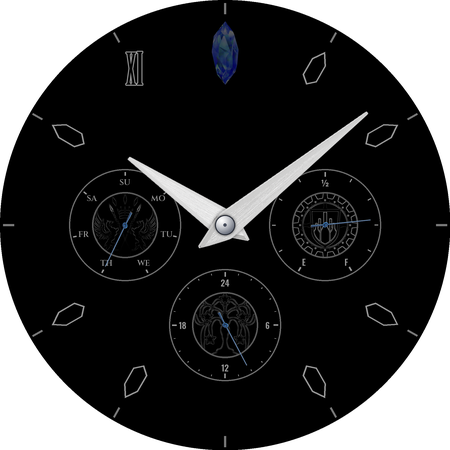
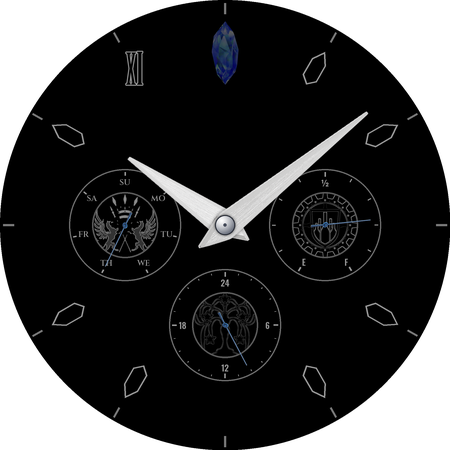
Watch face: thin outline hands and clearer San d'Oria in the Dark style
- Dark style gets its own minimalist hands: slim hollow lance outlines for
  hour and minute, hairline sub-dial needles with a ring pivot, and an
  outline centre cap. Classic keeps the photographed steel hands. Hands
  now live inside the Style setting so each style has its own set.
- San d'Oria in the outline styles is redrawn from colour regions (grey
  griffin silhouettes with a light edge, crown and spears picked out):
  edge-tracing turned its gold detailing into noise at sub-dial size.

Claude-Session: https://claude.ai/code/session_01DhcV9kAg7FMXufVfZQP7Ta

Changed region(s): [[0.1867, 0.4356, 0.3422, 0.56]]

diff --git a/ffxi-watchface/tools/generate_assets.py b/ffxi-watchface/tools/generate_assets.py
@@ -283,12 +283,37 @@ def emblem_lines(em, bright=1.0):
     return Image.fromarray(e.astype(np.uint8)).resize(size, Image.LANCZOS).convert('RGB')
 
 
+def sandoria_art(size, bright=1.0):
+    """San d'Oria for the outline styles: grey griffin silhouettes with a light edge,
+    crown and spears picked out. Edge-tracing turns its gold detailing into noise."""
+    from scipy import ndimage
+    a = np.asarray(Image.open(os.path.join(EMBLEMS, 'sandoria.png')).convert('RGB')).astype(int)
+    r, g, b = a[..., 0], a[..., 1], a[..., 2]
+
+    def keep(m, min_size):
+        lab, n = ndimage.label(m)
+        sizes = ndimage.sum(m, lab, range(1, n + 1))
+        return np.isin(lab, [i + 1 for i, sz in enumerate(sizes) if sz >= min_size])
+
+    def soft_mask(m, sigma, thresh):
+        f = ndimage.gaussian_filter(m.astype(float), sigma)
+        f = Image.fromarray((np.clip(f, 0, 1) * 255).astype(np.uint8)).resize(size, Image.LANCZOS)
+        return np.asarray(f) > thresh * 255
+
+    black = soft_mask(keep(a.max(2) < 100, 300), 2.2, 0.5)
+    gold = soft_mask(keep(((r > 160) & (g > 100) & (b < 150) & (g > b + 30)) | (a.min(2) > 190), 40), 1.2, 0.45)
+    edge = black & ~ndimage.binary_erosion(black, iterations=3)
+    v = np.where(black, 85, 0) + np.where(edge, 120, 0) + np.where(gold, 230, 0)
+    v = np.clip(v, 0, 255) * bright
+    return Image.fromarray(v.astype(np.uint8)).filter(ImageFilter.GaussianBlur(0.8)).convert('RGB')
+
+
 def draw_emblem(img, key, cx, cy, ambient, bright=1.0):
     """Nation crest in a round medallion at the sub-dial centre."""
     r = s(EMBLEM_R)
     em = Image.open(os.path.join(EMBLEMS, key + '.png')).convert('RGB').resize((2 * r, 2 * r), Image.LANCZOS)
     if ambient:   # engraved line art: readable on black and keeps few pixels lit
-        em = emblem_lines(em, bright)
+        em = sandoria_art(em.size, bright) if key == 'sandoria' else emblem_lines(em, bright)
     img.paste(em, (int(cx - r), int(cy - r)), circle_mask((2 * r, 2 * r), r, r, r))
     if ambient:
         ImageDraw.Draw(img).ellipse([cx - r, cy - r, cx + r, cy + r], outline=(90, 90, 90), width=round(s(1.4)))
@@ -441,7 +466,7 @@ HAND_PAD = 5   # room around each hand for its soft shadow
 
 def hand_canvas(w, tip, tail, pad=HAND_PAD):
     """Canvas for a hand whose pivot is at (w/2 + pad, tip + pad)."""
-    img = Image.new('RGBA', (s(w + 2 * pad), s(tip + tail + 2 * pad)), (0, 0, 0, 0))
+    img = Image.new('RGBA', (round(s(w + 2 * pad)), round(s(tip + tail + 2 * pad))), (0, 0, 0, 0))
     return img, s(w / 2 + pad), s(tip + pad)
 
 
@@ -498,7 +523,45 @@ def domed_cap(r, pad=HAND_PAD):
     return with_shadow(img, blur=1.4, alpha=0.7)
 
 
+def outline_hand(tip, tail, w, stroke=1.4, pad=2, color=(225, 225, 225)):
+    """Minimal Dark-style hand: a slim lance drawn as an outline, hollow (black) inside."""
+    img, px, py = hand_canvas(w, tip, tail, pad)
+    half = s(w) / 2
+    pts = [(px, py - s(tip)), (px + half, py - s(tip) * 0.2), (px + half * 0.35, py + s(tail)),
+           (px - half * 0.35, py + s(tail)), (px - half, py - s(tip) * 0.2)]
+    d = ImageDraw.Draw(img)
+    d.polygon(pts, fill=(0, 0, 0, 255))
+    d.line(pts + pts[:1], fill=color, width=round(s(stroke)), joint='curve')
+    return img
+
+
+def needle_hand(tip, tail, stroke=1.3, ring=3.2, pad=2, color=(225, 225, 225)):
+    """Minimal Dark-style sub-dial hand: a hairline with a hollow pivot ring."""
+    img, px, py = hand_canvas(8, tip, tail, pad)
+    d = ImageDraw.Draw(img)
+    d.line([(px, py - s(tip)), (px, py - s(ring))], fill=color, width=round(s(stroke)))
+    d.line([(px, py + s(ring)), (px, py + s(tail))], fill=color, width=round(s(stroke)))
+    d.ellipse([px - s(ring), py - s(ring), px + s(ring), py + s(ring)], fill=(0, 0, 0, 255),
+              outline=color, width=round(s(stroke)))
+    return img
+
+
+def outline_cap(r, pad=2, color=(225, 225, 225)):
+    size = s(2 * (r + pad))
+    img = Image.new('RGBA', (size, size), (0, 0, 0, 0))
+    c = size / 2
+    d = ImageDraw.Draw(img)
+    d.ellipse([c - s(r), c - s(r), c + s(r), c + s(r)], fill=(0, 0, 0, 255), outline=color, width=round(s(1.4)))
+    d.ellipse([c - s(1.3), c - s(1.3), c + s(1.3), c + s(1.3)], fill=color)
+    return img
+
+
 CAP_R = 10   # covers the hour hand's pivot hole
+CAPS = {
+    # name: (builder, canvas half-size in 450px units)
+    'cap': (lambda: domed_cap(CAP_R), CAP_R + HAND_PAD),
+    'cap_dark': (lambda: outline_cap(5), 5 + 2),
+}
 
 
 def _photo(name, tip, pad=HAND_PAD, **kw):
@@ -511,6 +574,10 @@ HANDS = {
     'hand_hour': _photo('hour', 118),
     'hand_minute': _photo('minute', 182),
     'hand_sub': _photo('sub', 46, pad=3, blur=1.0, alpha=0.6),
+    # Dark style: thin outline hands
+    'hand_hour_dark': (lambda: outline_hand(112, 16, 10), 10, 112, 16, 2),
+    'hand_minute_dark': (lambda: outline_hand(180, 20, 8), 8, 180, 20, 2),
+    'hand_sub_dark': (lambda: needle_hand(44, 10), 8, 44, 10, 2),
 }
 
 
@@ -540,12 +607,15 @@ def patch_xml():
         xml, n = re.subn(pattern, sub, xml)
         assert n == 1, pattern
 
-    setattrs(r'<HourHand [^>]*>', 225, 225, 'hand_hour')
-    setattrs(r'<MinuteHand [^>]*>', 225, 225, 'hand_minute')
-    for key, (cx, cy) in sub_centers().items():
-        setattrs(rf'<PartImage name="sub_{key}" [^>]*>', cx, cy, 'hand_sub')
-    cw = 2 * (CAP_R + HAND_PAD)
-    xml = re.sub(r'(<PartImage name="cap" )[^>]*>', rf'\g<1>x="{225 - cw / 2:g}" y="{225 - cw / 2:g}" width="{cw}" height="{cw}">', xml)
+    for sfx in ('', '_dark'):
+        setattrs(rf'<HourHand resource="hand_hour{sfx}" [^>]*>', 225, 225, 'hand_hour' + sfx)
+        setattrs(rf'<MinuteHand resource="hand_minute{sfx}" [^>]*>', 225, 225, 'hand_minute' + sfx)
+        for key, (cx, cy) in sub_centers().items():
+            setattrs(rf'<PartImage name="sub_{key}{sfx}" [^>]*>', cx, cy, 'hand_sub' + sfx)
+    for name, (_, half) in CAPS.items():
+        xml, n = re.subn(rf'(<PartImage name="{name}" )[^>]*>',
+                         rf'\g<1>x="{225 - half:g}" y="{225 - half:g}" width="{2 * half:g}" height="{2 * half:g}">', xml)
+        assert n == 1, name
     open(path, 'w').write(xml)
 
 
@@ -572,19 +642,21 @@ def place(canvas, hand, name, cx, cy, deg):
     canvas.alpha_composite(layer.rotate(-deg, center=(s(cx), s(cy)), resample=Image.BICUBIC))
 
 
-def preview(dial_hi, hands_hi, cap_hi, glass_hi, hh=10, mm=8, ss=32, dow=5, day=29, batt=78, ambient=False, dark=False):
+def preview(dial_hi, hands_hi, caps_hi, glass_hi, hh=10, mm=8, ss=32, dow=5, day=29, batt=78, ambient=False, dark=False):
     img = dial_hi.copy()
-    sub = hands_hi['hand_sub']
+    sfx = '_dark' if dark else ''
+    cap_hi = caps_hi['cap' + sfx]
+    sub = hands_hi['hand_sub' + sfx]
     centers = sub_centers()
-    place(img, sub, 'hand_sub', *centers['sandoria'], (dow - 1) * 360 / 7)
-    place(img, sub, 'hand_sub', *centers['bastok'], -150 + batt * 3)
-    place(img, sub, 'hand_sub', *centers['windurst'], (hh + mm / 60) * 15)
+    place(img, sub, 'hand_sub' + sfx, *centers['sandoria'], (dow - 1) * 360 / 7)
+    place(img, sub, 'hand_sub' + sfx, *centers['bastok'], -150 + batt * 3)
+    place(img, sub, 'hand_sub' + sfx, *centers['windurst'], (hh + mm / 60) * 15)
     if not ambient or dark:
         d = ImageDraw.Draw(img)
         text_c(d, (s(DATE_POS[0]), s(DATE_POS[1])), str(day), font(FONT_SERIF, 15),
                (190, 190, 190) if dark else (20, 20, 20))
-    place(img, hands_hi['hand_hour'], 'hand_hour', 225, 225, (hh % 12 + mm / 60) * 30)
-    place(img, hands_hi['hand_minute'], 'hand_minute', 225, 225, mm * 6 + ss / 10)
+    place(img, hands_hi['hand_hour' + sfx], 'hand_hour' + sfx, 225, 225, (hh % 12 + mm / 60) * 30)
+    place(img, hands_hi['hand_minute' + sfx], 'hand_minute' + sfx, 225, 225, mm * 6 + ss / 10)
     img.alpha_composite(cap_hi, (round(C - cap_hi.width / 2), round(C - cap_hi.height / 2)))
     if not ambient and not dark:
         img.alpha_composite(glass_hi)
@@ -603,8 +675,10 @@ def main():
     for name, (build, *_rest) in HANDS.items():
         hands_hi[name] = build()
         finish(hands_hi[name]).save(os.path.join(OUT, name + '.png'))
-    cap_hi = domed_cap(CAP_R)
-    finish(cap_hi).save(os.path.join(OUT, 'cap.png'))
+    cap_hi = {}
+    for name, (build, _) in CAPS.items():
+        cap_hi[name] = build()
+        finish(cap_hi[name]).save(os.path.join(OUT, name + '.png'))
     glass_hi = make_glass()
     finish(glass_hi).save(os.path.join(OUT, 'glass.png'))
     patch_xml()

diff --git a/ffxi-watchface/README.md b/ffxi-watchface/README.md
@@ -9,7 +9,8 @@ A Pixel Watch / Wear OS watch face inspired by the Seiko × FINAL FANTASY XI
 | ![classic](docs/preview_active.png) | ![dark](docs/preview_dark.png) | ![ambient](docs/preview_ambient.png) |
 
 Switch styles on the watch: long-press the face, tap **Customize**, then **Style** (Classic or Dark).
-Dark is the minimalist outline look, with the crests drawn as line art.
+Dark is the minimalist outline look: thin outline hands, a hairline sub-dial needle, and the crests drawn as line art
+(San d'Oria as grey griffin silhouettes so it stays readable).
 
 ## Design (after the Seiko piece)
 
